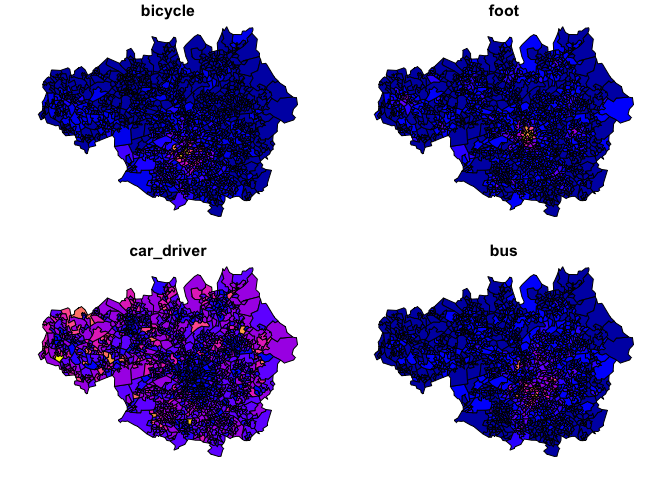
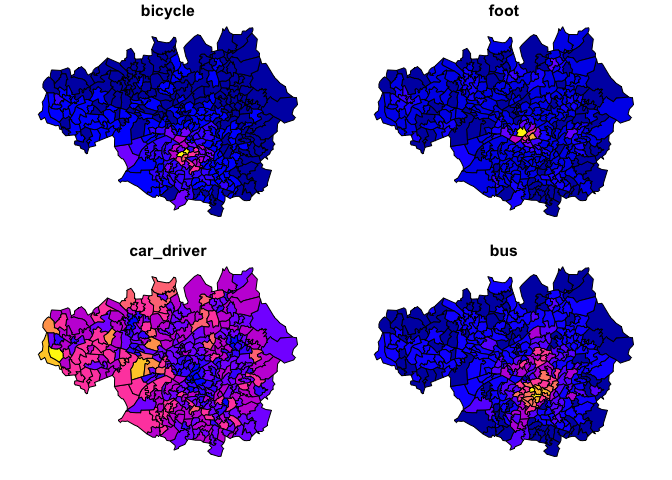
Re-build Rmarkdown files

diff --git a/README.md b/README.md
@@ -60,7 +60,8 @@ pkgs = c(
   "osmextract",
   "tmap",
   "stplanr",
-  "od"
+  "od",
+  "dplyr"
 )
 ```
 
@@ -85,10 +86,18 @@ lapply(pkgs, library, character.only = TRUE)[length(pkgs)]
 #> 
 #>     od_id_character, od_id_max_min, od_id_order, od_id_szudzik,
 #>     od_oneway, od_to_odmatrix, odmatrix_to_od
+#> 
+#> Attaching package: 'dplyr'
+#> The following objects are masked from 'package:stats':
+#> 
+#>     filter, lag
+#> The following objects are masked from 'package:base':
+#> 
+#>     intersect, setdiff, setequal, union
 #> [[1]]
-#>  [1] "od"         "stplanr"    "tmap"       "osmextract" "stats19"   
-#>  [6] "pct"        "sf"         "stats"      "graphics"   "grDevices" 
-#> [11] "utils"      "datasets"   "methods"    "base"
+#>  [1] "dplyr"      "od"         "stplanr"    "tmap"       "osmextract"
+#>  [6] "stats19"    "pct"        "sf"         "stats"      "graphics"  
+#> [11] "grDevices"  "utils"      "datasets"   "methods"    "base"
 ```
 
 One final line of code to set-up the environment is to switch `tmap`
@@ -138,7 +147,8 @@ sf::st_write(chorlton_buffer, "chorlton_buffer.geojson")
 head(pct::pct_regions$region_name)
 #> [1] "london"                "greater-manchester"    "liverpool-city-region"
 #> [4] "south-yorkshire"       "north-east"            "west-midlands"
-zones = pct::get_pct_zones("greater-manchester")
+# zones = pct::get_pct_zones("greater-manchester") # for smaller LSOA zones
+zones = pct::get_pct_zones("greater-manchester", geography = "msoa")
 names(zones)[1:20]
 #>  [1] "geo_code"      "geo_name"      "lad11cd"       "lad_name"     
 #>  [5] "all"           "bicycle"       "foot"          "car_driver"   
@@ -169,7 +179,7 @@ zones = zones[zones$geo_code %in% zone_centroids_chorlton$geo_code, ]
 
 Let’s plot the result, to get a handle on the level of walking and
 cycling in the area (see interactive version of this map
-[here](https://rpubs.com/RobinLovelace/772770)):
+[here](https://rpubs.com/RobinLovelace/772770), shown are LSOA results):
 
 ``` r
 tm_shape(zones) +
@@ -179,12 +189,100 @@ tm_shape(zones) +
 
 ![](https://i.imgur.com/oEuv1Zj.png)
 
-# Desire line data from the PCT
+# Desire line data from the pct package
 
 The maps shown in the previous section establish that there is a decent
 amount of cycling in the Chorlton area, at least according to the 2011
 Census which is still a good proxy for travel patterns in 2021 due to
 the inertia of travel behaviours to change (Goodman 2013).
+
+You can get national OD data from the Census into R with the following
+command:
+
+``` r
+od_national = pct::get_od()
+#> No region provided. Returning national OD data.
+#> 
+#> ── Column specification ────────────────────────────────────────────────────────
+#> cols(
+#>   `Area of residence` = col_character(),
+#>   `Area of workplace` = col_character(),
+#>   `All categories: Method of travel to work` = col_double(),
+#>   `Work mainly at or from home` = col_double(),
+#>   `Underground, metro, light rail, tram` = col_double(),
+#>   Train = col_double(),
+#>   `Bus, minibus or coach` = col_double(),
+#>   Taxi = col_double(),
+#>   `Motorcycle, scooter or moped` = col_double(),
+#>   `Driving a car or van` = col_double(),
+#>   `Passenger in a car or van` = col_double(),
+#>   Bicycle = col_double(),
+#>   `On foot` = col_double(),
+#>   `Other method of travel to work` = col_double()
+#> )
+#> 
+#> ── Column specification ────────────────────────────────────────────────────────
+#> cols(
+#>   MSOA11CD = col_character(),
+#>   MSOA11NM = col_character(),
+#>   BNGEAST = col_double(),
+#>   BNGNORTH = col_double(),
+#>   LONGITUDE = col_double(),
+#>   LATITUDE = col_double()
+#> )
+od_national
+#> # A tibble: 2,402,201 x 18
+#>    geo_code1 geo_code2   all from_home light_rail train   bus  taxi motorbike
+#>    <chr>     <chr>     <dbl>     <dbl>      <dbl> <dbl> <dbl> <dbl>     <dbl>
+#>  1 E02000001 E02000001  1506         0         73    41    32     9         1
+#>  2 E02000001 E02000014     2         0          2     0     0     0         0
+#>  3 E02000001 E02000016     3         0          1     0     2     0         0
+#>  4 E02000001 E02000025     1         0          0     1     0     0         0
+#>  5 E02000001 E02000028     1         0          0     0     0     0         0
+#>  6 E02000001 E02000051     1         0          1     0     0     0         0
+#>  7 E02000001 E02000053     2         0          2     0     0     0         0
+#>  8 E02000001 E02000057     1         0          1     0     0     0         0
+#>  9 E02000001 E02000058     1         0          0     0     0     0         0
+#> 10 E02000001 E02000059     1         0          0     0     0     1         0
+#> # … with 2,402,191 more rows, and 9 more variables: car_driver <dbl>,
+#> #   car_passenger <dbl>, bicycle <dbl>, foot <dbl>, other <dbl>,
+#> #   geo_name1 <chr>, geo_name2 <chr>, la_1 <chr>, la_2 <chr>
+```
+
+Let’s keep only OD data that have a start and end point in the study
+area:
+
+``` r
+od = od_national %>% 
+  filter(geo_code1 %in% zones$geo_code) %>% 
+  filter(geo_code2 %in% zones$geo_code)
+dim(od)
+#> [1] 286  18
+```
+
+The result is nearly 300 rows of data representing movement between
+origins and destinations. The data is non geographic, however. To
+convert this non-geographic data into geographic desire lines, you can
+use the `od_to_sf()` function in the `od` package as follows:
+
+``` r
+desire_lines = od::od_to_sf(x = od, z = zones)
+#> 0 origins with no match in zone ids
+#> 0 destinations with no match in zone ids
+#>  points not in od data removed.
+```
+
+We can plot the result as follows:
+
+``` r
+tmap_mode("plot")
+#> tmap mode set to plotting
+qtm(zones) +
+  tm_shape(desire_lines) +
+  tm_lines(c("foot", "bicycle"), palette = "Blues", style = "jenks", lwd = 3, alpha = 0.5)
+```
+
+![](README_files/figure-gfm/unnamed-chunk-16-1.png)<!-- -->
 
 # Crash data from stats19
 
